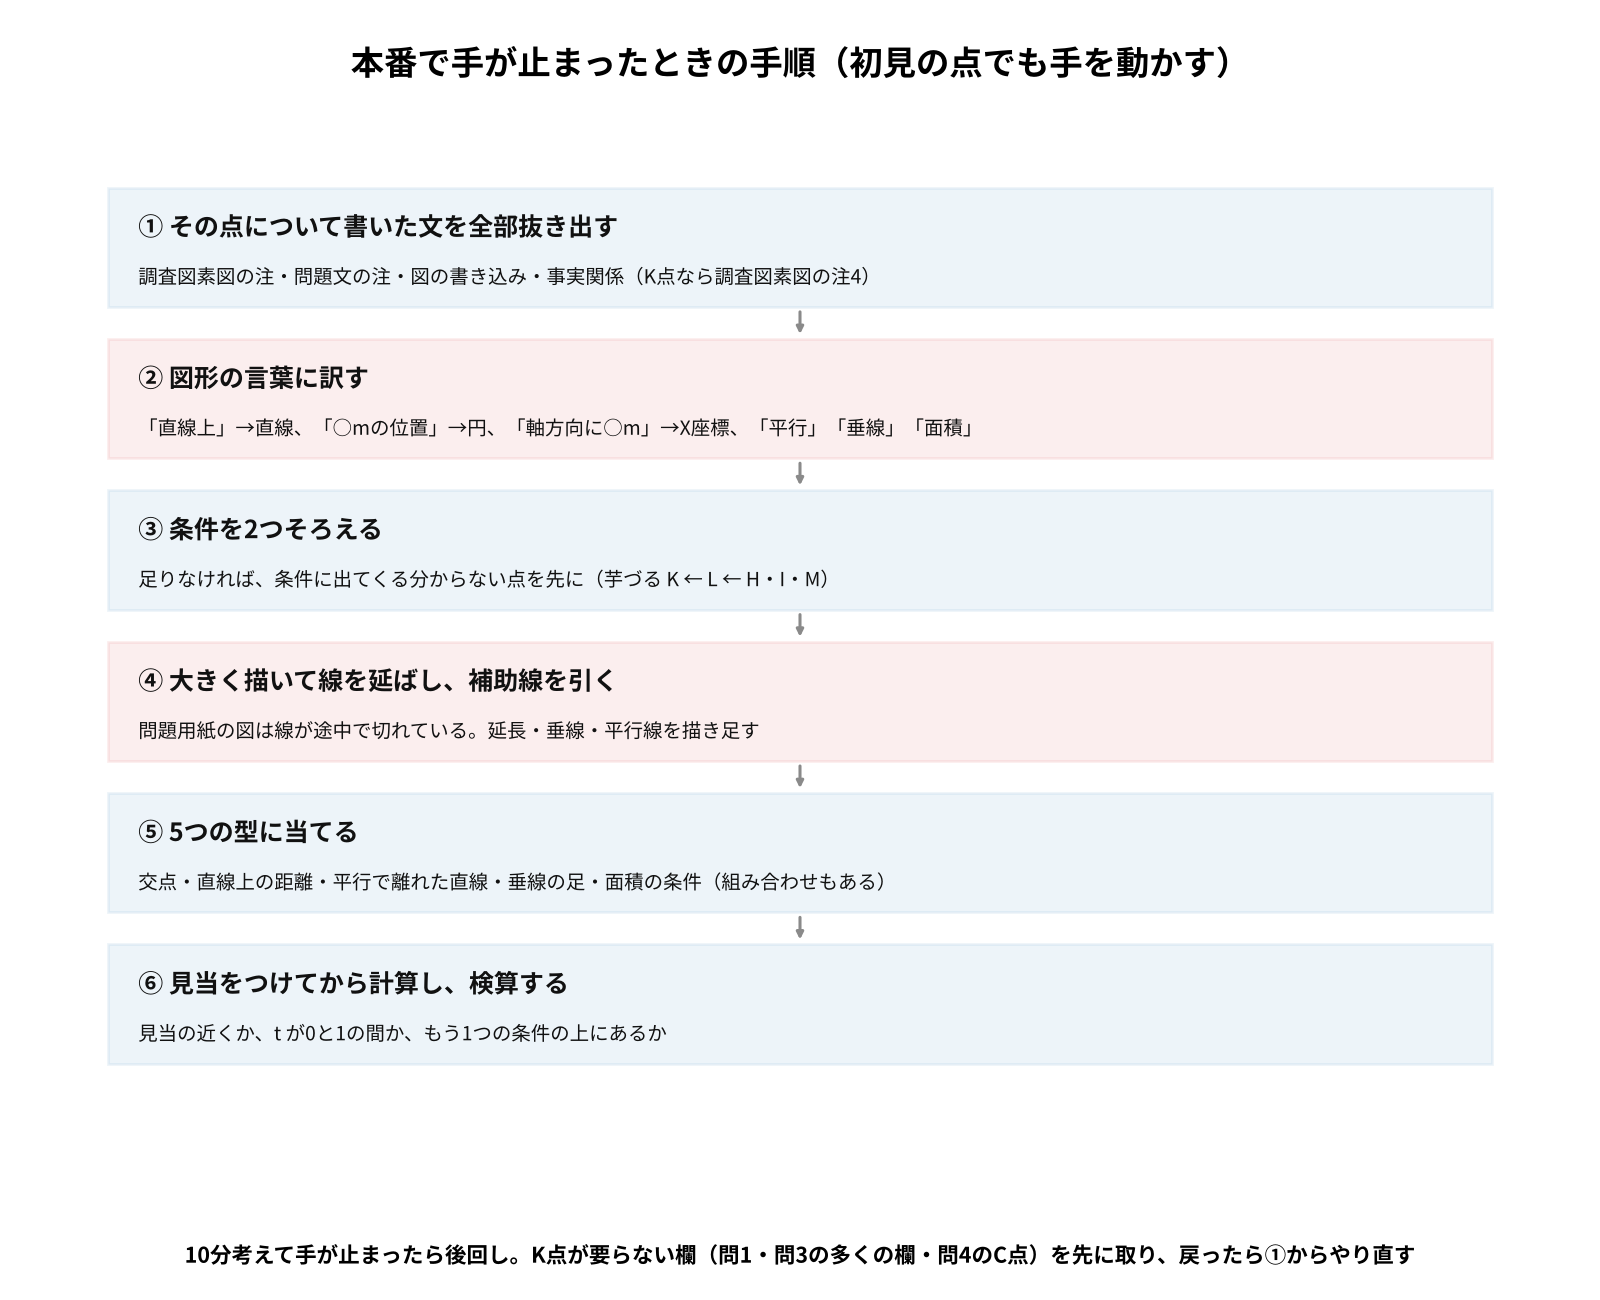
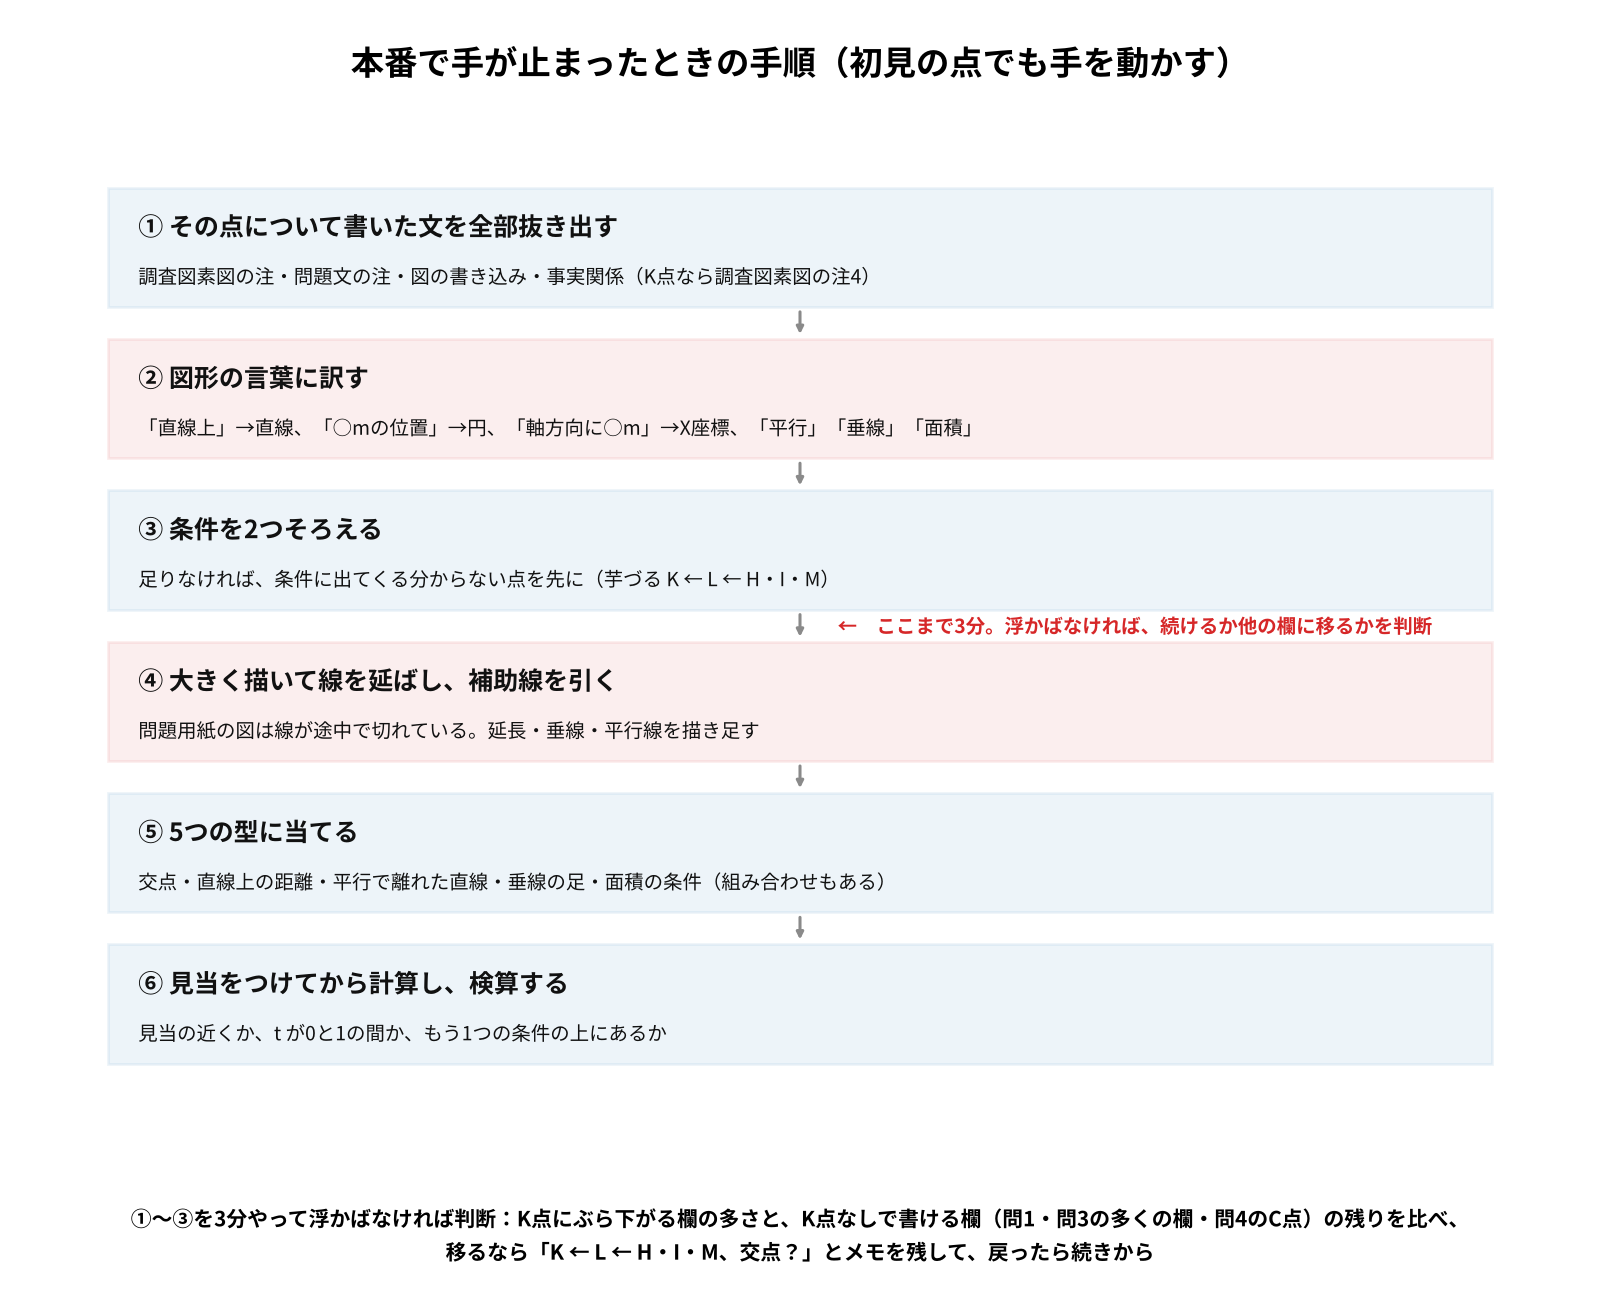
R8/Q21: K点で手が止まったときの目安を10分から3分の判断に直す（続けるか他の欄に移るか、移るならメモを残す）
Claude-Session: https://claude.ai/code/session_01Pt6VCxHzjhxnnZm3dvBw6U

Changed region(s): [[0.0938, 0.9231, 0.9062, 0.9846], [0.5625, 0.4615, 0.9062, 0.4923]]

diff --git a/note-articles-Kijyutsu/R8/Q21/verify_R8_dai21mon_kaiwa.py b/note-articles-Kijyutsu/R8/Q21/verify_R8_dai21mon_kaiwa.py
@@ -242,7 +242,7 @@ ksec = text[text.index('### K点に全く手が出なかった人へ'):text.inde
 for s_ in ['調査図素図の注4', '条件の数を数える', '芋づる', 'K ← L ← H・I・M', '補助線', '7.0977 ＋ 21.6825i', '231.3162 − 67.3118i',
            '21.6825 ＋ 67.3118 ＝ 88.9943', '2直線の交点', '直線上で決まった距離', '平行で決まった幅だけ離れた直線', '垂線の足', '面積の条件',
            '令和3年度のH点', '平成30年度のI点', '平成28年度のJ点', '平成24年度のK点', '平成22年度のK点', '令和5年度のB点・H点', '平成29年度のH点・I点',
-           '令和元年度のG点', '平成20年度のF点', '平成24年度のL点', '平成21年度のJ点', '令和7年度の2等分', 't ＝ 0.24', '0.37', '10分']:
+           '令和元年度のG点', '平成20年度のF点', '平成24年度のL点', '平成21年度のJ点', '令和7年度の2等分', 't ＝ 0.24', '0.37', '3分', '2時間30分', 'メモ']:
     judge(f'K点の節に「{s_}」', s_ in ksec)
 _D, _J, _I, _L = P(510.78, 490.69), P(510.78, 492.46), P(498.53, 494.70), P(492.10, 491.31)
 judge('高さの比の値（21.6825・−67.3118、和88.9943、K一致）',

diff --git a/note-articles-Kijyutsu/R8/Q21/zu/draw_R8_dai21mon_kaisetsuzu.py b/note-articles-Kijyutsu/R8/Q21/zu/draw_R8_dai21mon_kaisetsuzu.py
@@ -347,8 +347,12 @@ for i, (head, body) in enumerate(STEPS11):
     ax.text(6, y - 2.7, body, ha='left', va='center', fontsize=14, color=BLACK)
     if i < len(STEPS11) - 1:
         arrow(ax, 50, y - 5.8, 50, y - 8.4)
-fig.text(0.5, 0.035, '10分考えて手が止まったら後回し。K点が要らない欄（問1・問3の多くの欄・問4のC点）を先に取り、戻ったら①からやり直す',
-         ha='center', va='center', fontsize=15.5, weight='bold')
+        if i == 2:
+            ax.text(52.5, y - 7.1, '←　ここまで3分。浮かばなければ、続けるか他の欄に移るかを判断', ha='left', va='center',
+                    fontsize=14, weight='bold', color=RED)
+fig.text(0.5, 0.05, '①〜③を3分やって浮かばなければ判断：K点にぶら下がる欄の多さと、K点なしで書ける欄（問1・問3の多くの欄・問4のC点）の残りを比べ、\n'
+         '移るなら「K ← L ← H・I・M、交点？」とメモを残して、戻ったら続きから',
+         ha='center', va='center', fontsize=15, weight='bold', linespacing=1.6)
 put_board(fig, 'R8_dai21mon_zu11_K_mayottara.png')
 
 # ---- zu12：申請件数と登録免許税 ----

diff --git a/note-articles-Kijyutsu/qa-checklist-kijutsu.md b/note-articles-Kijyutsu/qa-checklist-kijutsu.md
@@ -499,6 +499,7 @@
 - 会話への反映（同日、ユーザー指示）：照合で違っていたところは、記事の中で藍子の間違いとトリ先生の突っ込み・解説（（ロ）の「分筆して」→「分割して」、隣接地の2－18・2－55の書き漏らし）か、引っかからずに解けた描写（変わらない地目は空欄でも宅地と書いても中身は同じ、と藍子が自分で気づく）にした。照合の違いを、記事の注記ではなく会話の中で扱う
 - 画像の追加と動画化の準備（同日、ユーザー指示）：会話に足した3つのわなに図を足した（（ロ）の原因「分割して」の書き方、分合筆で変わる欄・変わらない地目、角で接する2－18・2－55を含む隣接地の地番。解説図24枚・マーカー29か所）。あわせて、計算過程（C点の放射、L点、K点の交点、甲土地・（ロ）・（イ）の面積、合筆後の地積、11月の分筆の3筆の面積と地番、辺長10本）を、1つの計算につき1本、ステップごとに要素が積み上がるコマ（1280×720、いまのステップは赤・前のステップは灰色、右に式・電卓・表示）と絵コンテ（ナレーション案つき）・試作の動画にした（`R8/Q21/douga/`、9本・70コマ）。文字の位置は全ステップを重ねた最後のコマで決めて重なりを検査し、どのコマでも同じ位置に置く（コマごとに自動配置すると文字が動いて見づらい）。照合スクリプトで、コマの枚数・大きさと絵コンテの値が記事と同じことを確かめる
 - 解けなかった人向けの節（同日、ユーザー指示）：問2のK点に全く手が出なかった人向けに、答えの導き方だけでなく、どこに着目すべきだったか（注の言い回しを図形の言葉に訳す・条件を2つ数える・芋づる）、式を忘れたときに補助線で作り直す方法（交点の式は高さの比＝三角形の面積の2倍の比）、過去問の5つの型と年度、初見で手が止まったときの手順を会話にした。新しい年度でも、受験生が手を止めやすい点は「着眼点 → 型 → 補助線・別解 → 手が止まったときの手順」の順で、解けなかった人向けの節を足すとよい。過去の年度の点を型の例に挙げるときは、各年度の記録（CLAUDE.md・記事）で点名と条件を確かめてから書く
+- 時間の目安（同日、ユーザー指摘）：「10分止まったら後回し」は本番の時間（午後の部は択一式20問と記述式2問で2時間30分）に合わない。①抜き出す〜③条件を2つそろえるを3分やって解き方が浮かばなければ、その点にぶら下がる欄の多さと、その点なしで書ける欄の残りを比べて、続けるか他の欄に移るかを判断し、移るなら余白にメモ（K ← L ← H・I・M、交点？）を残す形に直した。手が止まったときの目安を書くときは、本番の残り時間で現実的な分数にする
 
 **2026-10-18　令和8年度 第22問（建物）を自力で解いて作成（R8/Q22）**
 

diff --git a/note-articles-Kijyutsu/R8/Q21/note_R8_dai21mon_tochi_kaiwa_kaisetsu.md b/note-articles-Kijyutsu/R8/Q21/note_R8_dai21mon_tochi_kaiwa_kaisetsu.md
@@ -393,12 +393,18 @@ K ＝ J ＋ (L − J) × t
 「見当で答えを決めるんじゃなくて、計算の答えを見当で確かめるんですね」
 
 **トリ先生**  
-「そう。それでも10分考えて手が止まったら、K点は後回し。第9章で話す解く順番のとおり、問1、問3のK点が要らない欄、問4のC点を先に取っておきなさい。戻ってきたら、この手順の①からやり直せばいいの」
+「そう。ただし本番は時間との勝負よ。午後の部は択一式20問と記述式2問で2時間30分。1つの点に10分も止まっていたら、第22問まで手が回らなくなる。だから、①〜③を3分やって解き方が浮かばなかったら、そこで判断するの。考え続けるか、いったん他の欄に移るかを、その場で決めなさい」
 
 **藍子**  
-「はい！　①抜き出す、②訳す、③2つそろえる、④大きく描いて補助線、⑤型に当てる、⑥見当と検算。問題用紙を開いたら、余白の端にまず書いておきます」
+「何を見て決めればいいですか？」
 
-> 【画像挿入】本番で手が止まったときの手順の図（①その点の文を全部抜き出す → ②図形の言葉に訳す → ③条件を2つそろえる〈足りなければ芋づる〉 → ④大きく描いて延ばす・補助線 → ⑤5つの型に当てる → ⑥見当をつけて計算・検算。10分止まったら後回し）
+**トリ先生**  
+「物差しは2つ。1つめは、K点がないと書けない欄がどれだけあるか。問2の座標、問3の（イ）と（ロ）と合筆後の地積、問5の面積と作図……本問はK点にぶら下がる欄が多いから、あと少しで型が見えそうなら続ける価値がある。2つめは、K点がなくても書ける欄が残っているか。問1、問3の登記の目的・添付書類・記号・申請人・登録免許税、問4のC点が残っているなら、先にそちらで点を取る。移るときは余白に『K ← L ← H・I・M、交点？』と書き残しておけば、戻ったときに①からやり直さずに続きから始められるわ」
+
+**藍子**  
+「①抜き出す、②訳す、③2つそろえる、④大きく描いて補助線、⑤型に当てる、⑥見当と検算。3分で浮かばなかったら、続けるか移るかをその場で決めて、移るならメモを残す。迷い続けるのがいちばんの時間の無駄なんですね。問題用紙を開いたら、余白の端にまず書いておきます」
+
+> 【画像挿入】本番で手が止まったときの手順の図（①その点の文を全部抜き出す → ②図形の言葉に訳す → ③条件を2つそろえる〈足りなければ芋づる〉 → ④大きく描いて延ばす・補助線 → ⑤5つの型に当てる → ⑥見当をつけて計算・検算。3分で浮かばなければ、続けるか他の欄に移るかを判断し、移るならメモを残す）
 
 ---
 

diff --git a/note-articles-Kijyutsu/prompt_note-kijutsu_tochi_kaiwa_kyoutsu.md b/note-articles-Kijyutsu/prompt_note-kijutsu_tochi_kaiwa_kyoutsu.md
@@ -383,7 +383,7 @@
    - 3点セットで計算 → 答えを太字の行で示す → 検算（面積の条件、隣の土地の地積との一致など）
    - 対応する解説図の画像挿入マーカー
    - 申請書でない解答欄（座標の欄・穴埋め・要否と理由の記述の欄）は、その問の答えの直後に、答案用紙の欄の形の完成形の画像のマーカーを置く（問の最後や記事の末尾にまとめない。下の「出力」）
-   - **解けなかった人向けの節（R8/Q21で追加）**：受験生が手を止めやすい点（条件が注にしか書いていない交点など）は、答えの直後に `### 〇点に全く手が出なかった人へ` を置き、着眼点（注の言い回しを図形の言葉に訳す・条件を2つ数える・芋づる）→ 式を忘れたときの補助線・別解（3点セットつき）→ 過去問の型と年度 → 初見で手が止まったときの手順、の順で会話にする。型の例に挙げる過去の年度の点は、各年度の記録で点名と条件を確かめてから書く
+   - **解けなかった人向けの節（R8/Q21で追加）**：受験生が手を止めやすい点（条件が注にしか書いていない交点など）は、答えの直後に `### 〇点に全く手が出なかった人へ` を置き、着眼点（注の言い回しを図形の言葉に訳す・条件を2つ数える・芋づる）→ 式を忘れたときの補助線・別解（3点セットつき）→ 過去問の型と年度 → 初見で手が止まったときの手順、の順で会話にする。型の例に挙げる過去の年度の点は、各年度の記録で点名と条件を確かめてから書く。手が止まったときの目安は3分（①〜③をやって浮かばなければ、続けるか他の欄に移るかを判断し、移るならメモを残す）。10分などの本番の時間に合わない目安を書かない
 5. **穴埋め・判断の章**（公差・地積更正の要否など）：空欄ごとに藍子に答えさせ、最後に「**ア**：…」の箇条書きで整理する。判断の根拠（地域→精度区分→公差の表→差の比較）の順を会話で示す
 6. **地積測量図の章**：地番欄・土地の所在、辺長の一覧（箇条書き）、四捨五入の境目、「書く／書かない」の箇条書き（問題文の注の番号を添える）、縮尺と1mあたりのmm、作図の注意（一直線上の点、折れ点）。完成見本の画像挿入マーカー
 7. **登記申請書の章**：藍子が誤答（申請人の住所・地番の再利用など）→ トリ先生が時系列の根拠で直す → 誤答添削の画像挿入マーカー → 残りの欄を箇条書き（登記の目的、添付書類、申請人、登録免許税とその計算、所在、土地の表示の各行）→ 完成形の画像挿入マーカー
